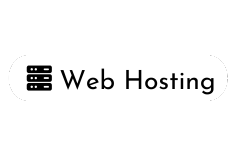
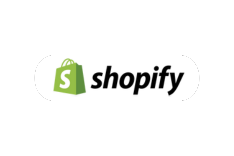
Update!

diff --git a/index-5.1.html b/index-5.1.html
@@ -289,14 +289,14 @@
 					<span class="hap-banner-shape4 position-absolute wow zoomIn"  data-wow-delay="500ms" data-wow-duration="1500ms" data-parallax='{"y" : 80}'><img src="assets/img/home_5/banner/bs4.png" alt=""></span>
 					<div class="hap-banner-img1 position-relative">
 						<div class="hap-banner-img hap-img-animation">
-							<img src="assets/img/home_5/banner/bn-img2.jpg" alt="">
+							<img src="assets/img/home_5/banner/bn-img2.png" alt="">
 						</div>
 						<span class="hap-banner-shape1 position-absolute wow fadeInLeft"  data-wow-delay="700ms" data-wow-duration="1200ms" ><img src="assets/img/home_5/banner/bs1.png" alt="" data-parallax='{"x" : 50}'></span>
 						<span class="hap-banner-shape2 position-absolute wow fadeInUp"  data-wow-delay="800ms" data-wow-duration="1200ms"><img src="assets/img/home_5/banner/bs2.png" alt="" data-parallax='{"x" : -50}'></span>
 						<span class="hap-banner-shape3 position-absolute wow fadeInDown"  data-wow-delay="900ms" data-wow-duration="1200ms"><img src="assets/img/home_5/banner/bs3.png" alt="" data-parallax='{"y" : -50}'></span>
 					</div>
 					<div class="hap-banner-img2 hap-img-animation">
-						<img src="assets/img/home_5/banner/bn-img1.jpg" alt="">
+						<img src="assets/img/home_5/banner/bn-img1.png" alt="">
 					</div>
 				</div>
 			</div>
@@ -323,34 +323,34 @@
 					<div class="col-lg-9">
 						<div class="hap-sponsor-logo-area d-flex flex-wrap">
 							<div class="sponsor-logo">
-								<a href="#"><img src="assets/img/home_5/sponsor/sp1.png" alt=""></a>
+								<a href="#"><img src="assets/img/home_5/sponsor/sp1.svg" alt=""></a>
 							</div>
 							<div class="sponsor-logo">
-								<a href="#"><img src="assets/img/home_5/sponsor/sp2.png" alt=""></a>
+								<a href="#"><img src="assets/img/home_5/sponsor/sp2.svg" alt=""></a>
 							</div>
 							<div class="sponsor-logo">
-								<a href="#"><img src="assets/img/home_5/sponsor/sp5.png" alt=""></a>
+								<a href="#"><img src="assets/img/home_5/sponsor/sp3.svg" alt=""></a>
 							</div>
 							<div class="sponsor-logo">
-								<a href="#"><img src="assets/img/home_5/sponsor/sp4.png" alt=""></a>
+								<a href="#"><img src="assets/img/home_5/sponsor/sp4.svg" alt=""></a>
 							</div>
 							<div class="sponsor-logo">
-								<a href="#"><img src="assets/img/home_5/sponsor/sp9.png" alt=""></a>
+								<a href="#"><img src="assets/img/home_5/sponsor/sp5.svg" alt=""></a>
 							</div>
 							<div class="sponsor-logo">
-								<a href="#"><img src="assets/img/home_5/sponsor/sp6.png" alt=""></a>
+								<a href="#"><img src="assets/img/home_5/sponsor/sp6.svg" alt=""></a>
 							</div>
 							<div class="sponsor-logo">
-								<a href="#"><img src="assets/img/home_5/sponsor/sp7.png" alt=""></a>
+								<a href="#"><img src="assets/img/home_5/sponsor/sp7.svg" alt=""></a>
 							</div>
 							<div class="sponsor-logo">
-								<a href="#"><img src="assets/img/home_5/sponsor/sp8.png" alt=""></a>
+								<a href="#"><img src="assets/img/home_5/sponsor/sp8.svg" alt=""></a>
 							</div>
 							<div class="sponsor-logo">
-								<a href="#"><img src="assets/img/home_5/sponsor/sp3.png" alt=""></a>
+								<a href="#"><img src="assets/img/home_5/sponsor/sp9.svg" alt=""></a>
 							</div>
 							<div class="sponsor-logo">
-								<a href="#"><img src="assets/img/home_5/sponsor/sp10.png" alt=""></a>
+								<a href="#"><img src="assets/img/home_5/sponsor/sp10.svg" alt=""></a>
 							</div>
 						</div>
 					</div>
@@ -765,11 +765,11 @@
 										<img src="assets/img/home_5/icon/ic5.png" alt="">
 									</div>
 									<div class="skill-text hap-headline pera-content">
-										<h3>Search Engine Optimization</h3>
-										<p>On the other hand, We denounce with righteous indignation And Dislike</p>
+										<h3>WordPress Websites</h3>
+										<p>Collaboratively designs, develops, and maintains WordPress websites for clients.</p>
 										<div class="skill-set-percent headline">
 											<div class="progress">
-												<div class="progress-bar" data-percent="92"></div>
+												<div class="progress-bar" data-percent="96"></div>
 											</div>
 										</div>
 									</div>
@@ -784,11 +784,11 @@
 										<img src="assets/img/home_5/icon/ic6.png" alt="">
 									</div>
 									<div class="skill-text hap-headline pera-content">
-										<h3>Marketing Strategy</h3>
-										<p>On the other hand, We denounce with righteous indignation And Dislike</p>
+										<h3>E-commerce Websites</h3>
+										<p>Online shopping boosts demand for e-commerce sites; businesses showcase, sell online.</p>
 										<div class="skill-set-percent headline">
 											<div class="progress">
-												<div class="progress-bar" data-percent="60"></div>
+												<div class="progress-bar" data-percent="92"></div>
 											</div>
 										</div>
 									</div>
@@ -803,11 +803,11 @@
 										<img src="assets/img/home_5/icon/ic7.png" alt="">
 									</div>
 									<div class="skill-text hap-headline pera-content">
-										<h3>Carefully Crafted</h3>
-										<p>On the other hand, We denounce with righteous indignation And Dislike</p>
+										<h3>Corporate Websites</h3>
+										<p>We crafts custom corporate websites, prioritizing brand, UX, and functionality.</p>
 										<div class="skill-set-percent headline">
 											<div class="progress">
-												<div class="progress-bar" data-percent="80"></div>
+												<div class="progress-bar" data-percent="95"></div>
 											</div>
 										</div>
 									</div>
@@ -820,7 +820,7 @@
 					</div>
 					<div class="col-lg-6">
 						<div class="hap-skill-img hap-img-animation">
-							<img src="assets/img/home_5/about/sk1.jpg" alt="">
+							<img src="assets/img/home_5/about/sk1.png" alt="">
 						</div>
 					</div>
 				</div>
@@ -830,7 +830,7 @@
 					<div class="col-lg-6">
 						<div class="hap-faq-img-wrapper position-relative d-flex justify-content-end">
 							<div class="hap-faq-img1 hap-img-animation">
-								<img src="assets/img/home_5/about/faq1.jpg" alt="">
+								<img src="assets/img/home_5/about/faq1.png" alt="">
 							</div>
 							<div class="hap-faq-img2 position-absolute hap-img-animation">
 								<img src="assets/img/home_5/about/blob.png" alt="">
@@ -1291,7 +1291,7 @@
 						<img src="assets/img/home_5/icon/tc1.png" alt="">
 					</div>
 					<div class="inner-text text-uppercase">
-						<a href="#">web design</a>
+						<a href="#">Mailchimp</a>
 					</div>
 				</div>
 				<div class="hap-topic-item text-center wow fadeInUp"  data-wow-delay="250ms" data-wow-duration="1000ms">
@@ -1299,12 +1299,12 @@
 						<img src="assets/img/home_5/icon/tc2.png" alt="">
 					</div>
 					<div class="inner-text text-uppercase">
-						<a href="#">html 5</a>
+						<a href="#">Shopify</a>
 					</div>
 				</div>
 				<div class="hap-topic-item text-center wow fadeInUp"  data-wow-delay="300ms" data-wow-duration="1000ms">
 					<div class="inner-img">
-						<img src="assets/img/home_5/icon/tc3.png" alt="">
+						<img src="assets/img/home_5/icon/tc3.jpg" alt="">
 					</div>
 					<div class="inner-text text-uppercase">
 						<a href="#">Wordpress</a>
